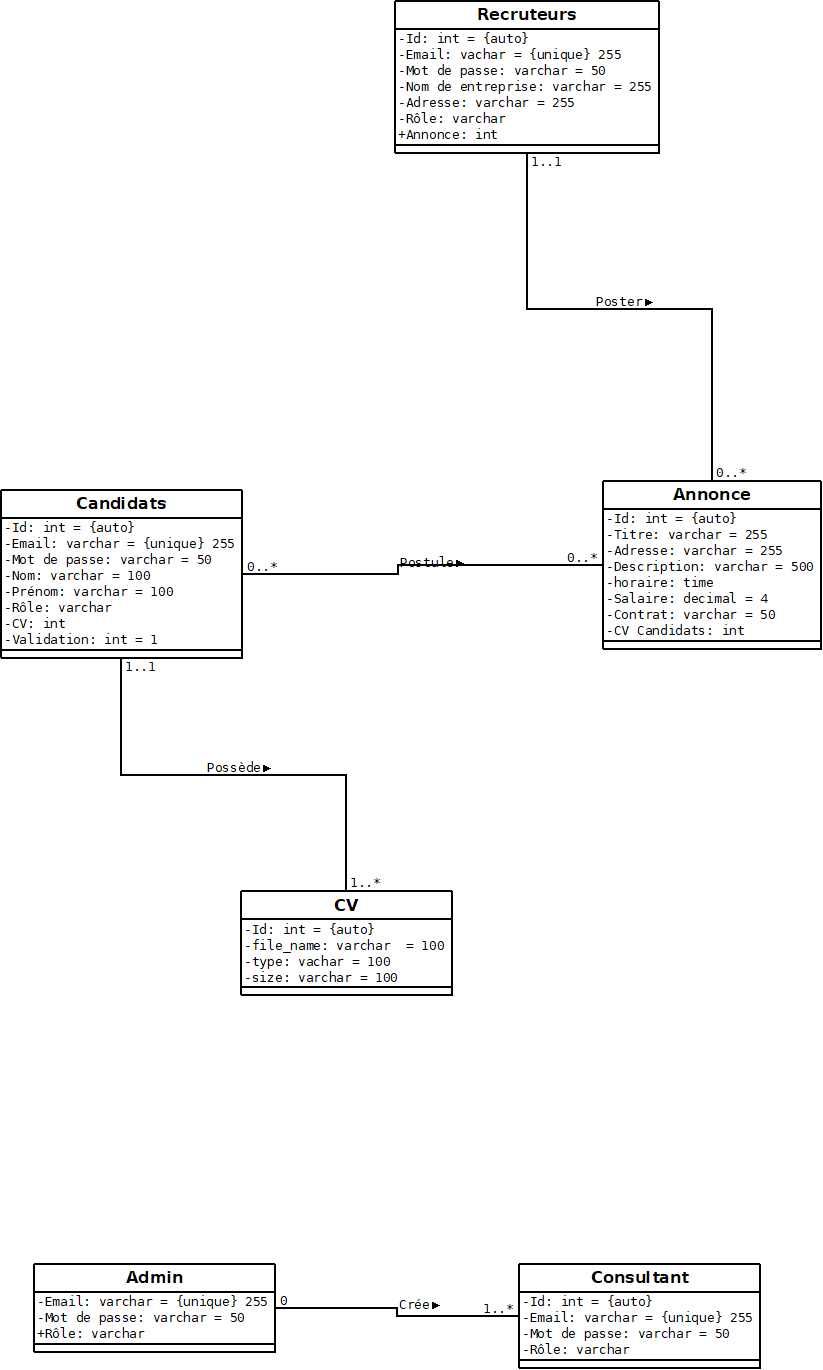
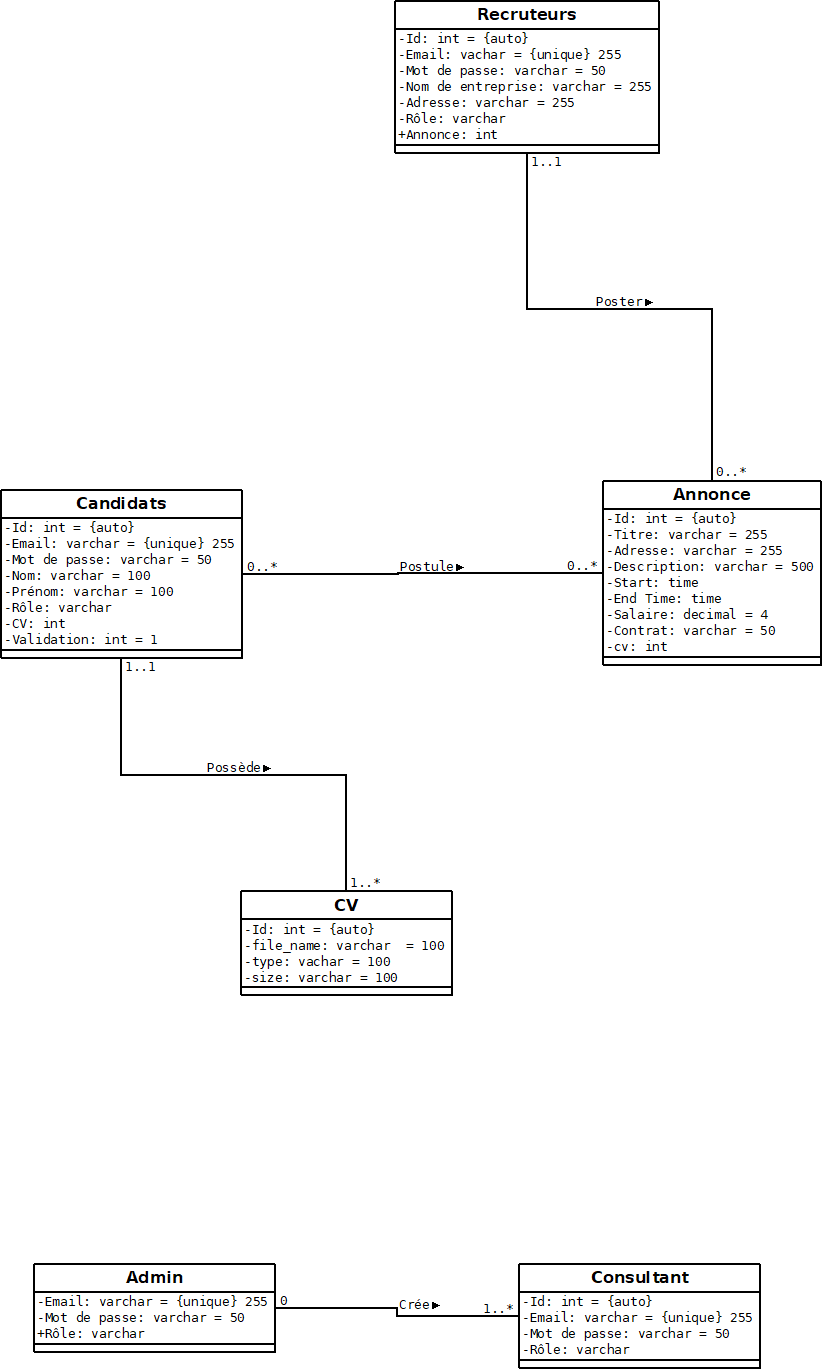
DSN

Changed region(s): [[0.729, 0.3985, 1.0, 0.4905], [0.486, 0.3985, 0.5772, 0.4292], [0.6683, 0.3985, 0.729, 0.4292]]

diff --git a/Log/Dsn.php b/Log/Dsn.php
@@ -10,106 +10,94 @@
     $pdo = new PDO("mysql:host=$hostname;dbname=$database", $username, $password);
     $pdo->setAttribute(PDO::ATTR_ERRMODE, PDO::ERRMODE_EXCEPTION);
 
-    //Création base de données si inexitant
-    if ($pdo->exec('CREATE DATABASE IF NOT EXISTS mahjmmdwa6sj72o9') !== false) {
-      $missionK = new PDO("mysql:host=$hostname;dbname=$database", $username, $password);
+      //Création table Cv si inexitant
+      if ($pdo->exec('CREATE TABLE IF NOT EXISTS `cv` (
+                `id` int(11) NOT NULL AUTO_INCREMENT,
+                `file_name` varchar(100) NOT NULL,
+                `type` varchar(100) NOT NULL,
+                `size` varchar(100) NOT NULL,
+                PRIMARY KEY (`id`)
+            )') !== false) {
 
-      //Création table Missions si inexitant
-      if ($missionK->exec('CREATE TABLE IF NOT EXISTS `missions` (
+        //Création table Annonce si inexitant
+        if ($pdo->exec('CREATE TABLE IF NOT EXISTS `annonce` (
         `id` int(11) NOT NULL AUTO_INCREMENT,
         `title` varchar(255) NOT NULL,
+        `adresse` varchar(255) NOT NULL,
         `description` text(500) NOT NULL,
-        `codename` varchar(255) NOT NULL,
-        `country` varchar(255) NOT NULL,
-        `agent` varchar(120) NOT NULL,
+        `start` time NOT NULL,
+        `end` time NOT NULL,
+        `salary` decimal(4) NOT NULL,
         `targets` varchar(255) NOT NULL,
-        `contacts` varchar(255) NOT NULL,
-        `type` varchar(255) NOT NULL,
-        `status` varchar(255) NOT NULL,
-        `hide` varchar(255) DEFAULT "Pas de planque",
-        `startDate` date NOT NULL,
-        `endDate` date NOT NULL,
+        `contrat` varchar(50) NOT NULL,
+        `cv` int REFERENCES cv(id),
         PRIMARY KEY (`id`)
       )') !== false) {
 
-        //Création table Agents si inexitant
-        if ($missionK->exec('CREATE TABLE IF NOT EXISTS `agents` (
+          //Création table Candidats si inexitant
+          if ($pdo->exec('CREATE TABLE IF NOT EXISTS `candidats` (
           `id` int(11) NOT NULL AUTO_INCREMENT,
-          `codeId` int(11) NOT NULL,
-          `firstname` varchar(255) NOT NULL,
-          `lastname` varchar(255) NOT NULL,
-          `birth` date NOT NULL,
-          `nation` varchar(25) NOT NULL,
-          `special` varchar(500) NOT NULL,
-          PRIMARY KEY (`id`),
-          UNIQUE KEY `codeId` (`codeId`))') !== false) {
-        
-        //Création table Admins si inexitant
-          if ($missionK->exec('CREATE TABLE IF NOT EXISTS `admins` (
-          `id` int(11) NOT NULL AUTO_INCREMENT,
-          `firstname` varchar(255) NOT NULL,
-          `lastname` varchar(255) NOT NULL,
           `email` varchar(255) NOT NULL,
           `password` varchar(60) NOT NULL,
-          `creationdate` date DEFAULT current_timestamp(),
+          `firstname` varchar(255) NOT NULL,
+          `lastname` varchar(255) NOT NULL,
+          `role` varchar(2) DEFAULT "CA",
+          `special` varchar(500) NOT NULL,
+          `cv` int REFERENCES cv(id),
+          PRIMARY KEY (`id`)
+      )') !== false) {
+
+            //Création table Admin si inexitant
+            if ($pdo->exec('CREATE TABLE IF NOT EXISTS `admin` (
+          `id` int(11) NOT NULL AUTO_INCREMENT,
+          `email` varchar(255) NOT NULL,
+          `password` varchar(60) NOT NULL,
+          `role` varchar(2) DEFAULT "AD",
           PRIMARY KEY (`id`),
           UNIQUE KEY `email` (`email`))') !== false) {
 
-            //Création table Contacts si inexitant
-            if ($missionK->exec('CREATE TABLE IF NOT EXISTS `contacts` (
+              //Création table Consultant si inexitant
+              if ($pdo->exec('CREATE TABLE IF NOT EXISTS `consultant` (
             `id` int(11) NOT NULL AUTO_INCREMENT,
-            `firstname` varchar(255) NOT NULL,
-            `lastname` varchar(255) NOT NULL,
-            `birth` date NOT NULL,
-            `codeName` varchar(25) NOT NULL,
-            `nation` varchar(25) NOT NULL,
+            `email` varchar(255) NOT NULL,
+            `password` varchar(60) NOT NULL,
+            `role` varchar(2) DEFAULT "CO",
             PRIMARY KEY (`id`),
-            UNIQUE KEY `codeName` (`codeName`))') !== false) {
+            UNIQUE KEY `email` (`email`))') !== false) {
 
-              //Création table Cible si inexitant
-              if ($missionK->exec('CREATE TABLE IF NOT EXISTS `target` (
+                //Création table Recruteur si inexitant
+                if ($pdo->exec('CREATE TABLE IF NOT EXISTS `Recruteur` (
                 `id` int(11) NOT NULL AUTO_INCREMENT,
-                `firstname` varchar(255) NOT NULL,
-                `lastname` varchar(255) NOT NULL,
-                `birth` date NOT NULL,
-                `codeName` varchar(25) NOT NULL,
-                `nation` varchar(25) NOT NULL,
+                `email` varchar(255) NOT NULL,
+                `password` varchar(60) NOT NULL,
+                `company` varchar(255) NOT NULL,
+                `adresse` varchar(255) NOT NULL,
+                `role` varchar(2) DEFAULT "RE",
+                `annonce` int REFERENCES annonce(id),
                 PRIMARY KEY (`id`),
-                UNIQUE KEY `codeName` (`codeName`))') !== false) {
-
-                //Création table Planque si inexitant
-                if ($missionK->exec('CREATE TABLE IF NOT EXISTS `hide` (
-                  `id` int(11) NOT NULL AUTO_INCREMENT,
-                  `code` int(11) NOT NULL,
-                  `address` varchar(350) NOT NULL,
-                  `country` varchar(255) NOT NULL,
-                  `type` varchar(255) NOT NULL,
-                  PRIMARY KEY (`id`))') !== false) {
-                  echo '';
+                UNIQUE KEY `email` (`email`))') !== false) {
 
                   //Affichager messages erreur des table
                 } else {
-                  echo 'Impossible de créer la table Planque<br>';
+                  echo 'Impossible de créer la table Recruteur<br>';
                 }
               } else {
-                echo 'Impossible de créer la table Cible<br>';
+                echo 'Impossible de créer la table Consultant<br>';
               }
             } else {
-              echo 'Impossible de créer la table Contacte<br>';
+              echo 'Impossible de créer la table Admin<br>';
             }
           } else {
-            echo 'Impossible de créer la table Admins<br>';
+            echo 'Impossible de créer la table Candidats<br>';
           }
         } else {
-          echo 'Impossible de créer la table Agents<br>';
+          echo 'Impossible de créer la table Annonce<br>';
         }
       } else {
-        echo 'Impossible de créer la table Missions<br>';
+        echo 'Impossible de créer la table CV<br>';
       }
-    } else {
-      echo 'Impossible de créer la base<br>';
     }
     //Récupération du message erreur 
-  } catch (PDOException $exception) {
+     catch (PDOException $exception) {
     die($exception->getMessage());
   }

diff --git a/Modele/Annonce.php b/Modele/Annonce.php
@@ -6,10 +6,11 @@ class Annonce
     private string $title;
     private string $adresse;
     private string $description;
-    private string $time;
+    private string $start;
+    private string $end;
     private string $salary;
     private string $contract;
-    public string $cv;
+    private string $cv;
 
     public function getId(): string
 
@@ -34,11 +35,18 @@ class Annonce
         return $this->description;
     }
 
-    public function getTime(): string
+    public function getStart(): string
 
     {
-        return $this->time;
+        return $this->start;
     }
+
+    public function getEnd(): string
+
+    {
+        return $this->end;
+    }
+
     public function getSalary(): string
 
     {
@@ -49,7 +57,6 @@ class Annonce
     {
         return $this->contract;
     }
-
     public function getCv(): string
 
     {
